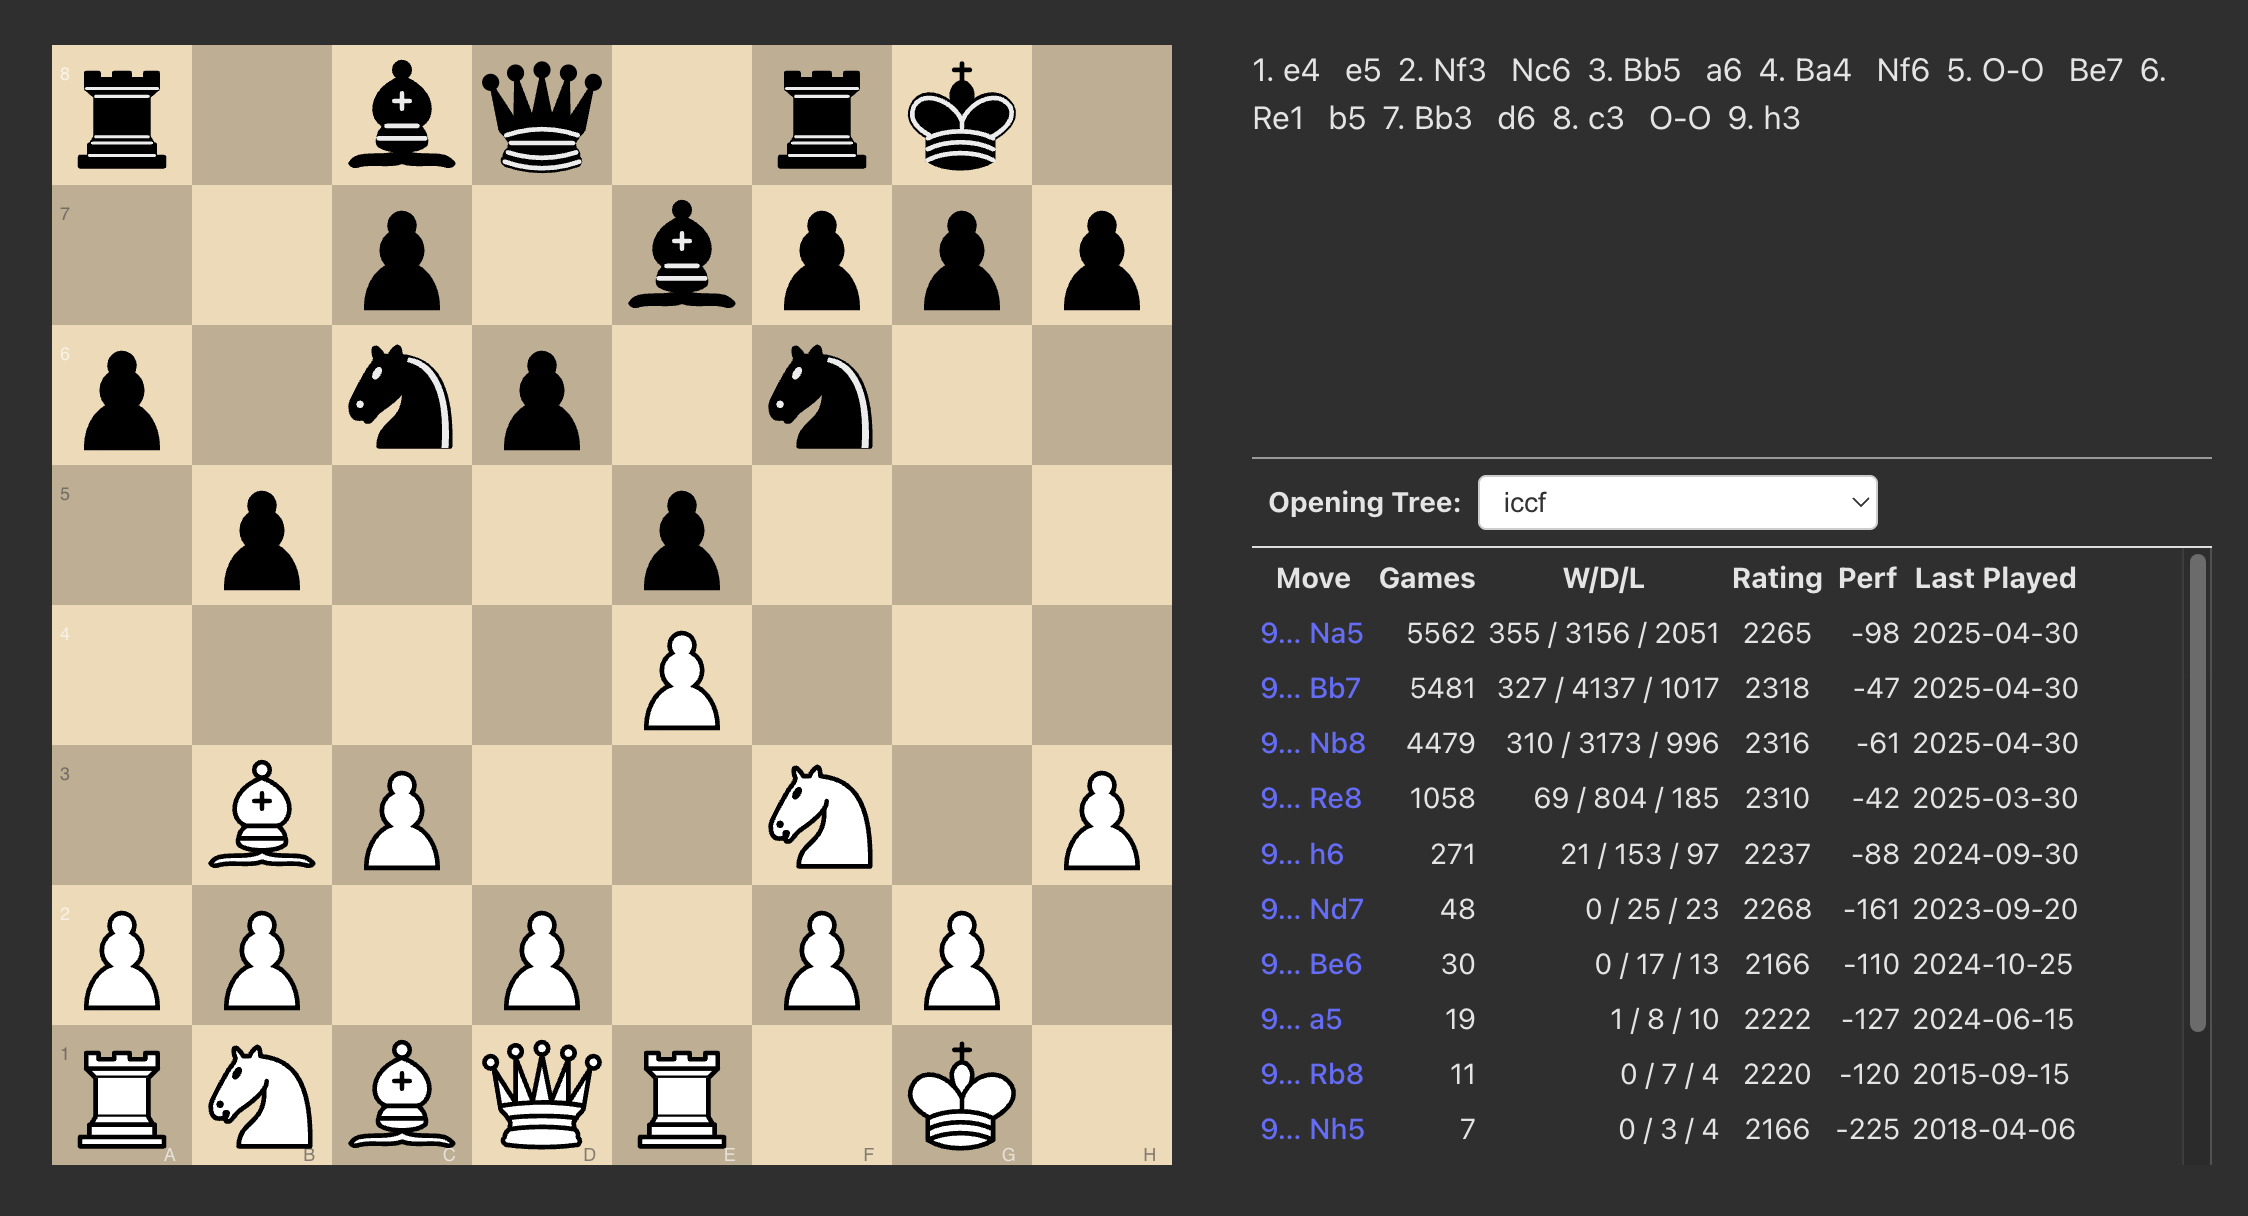
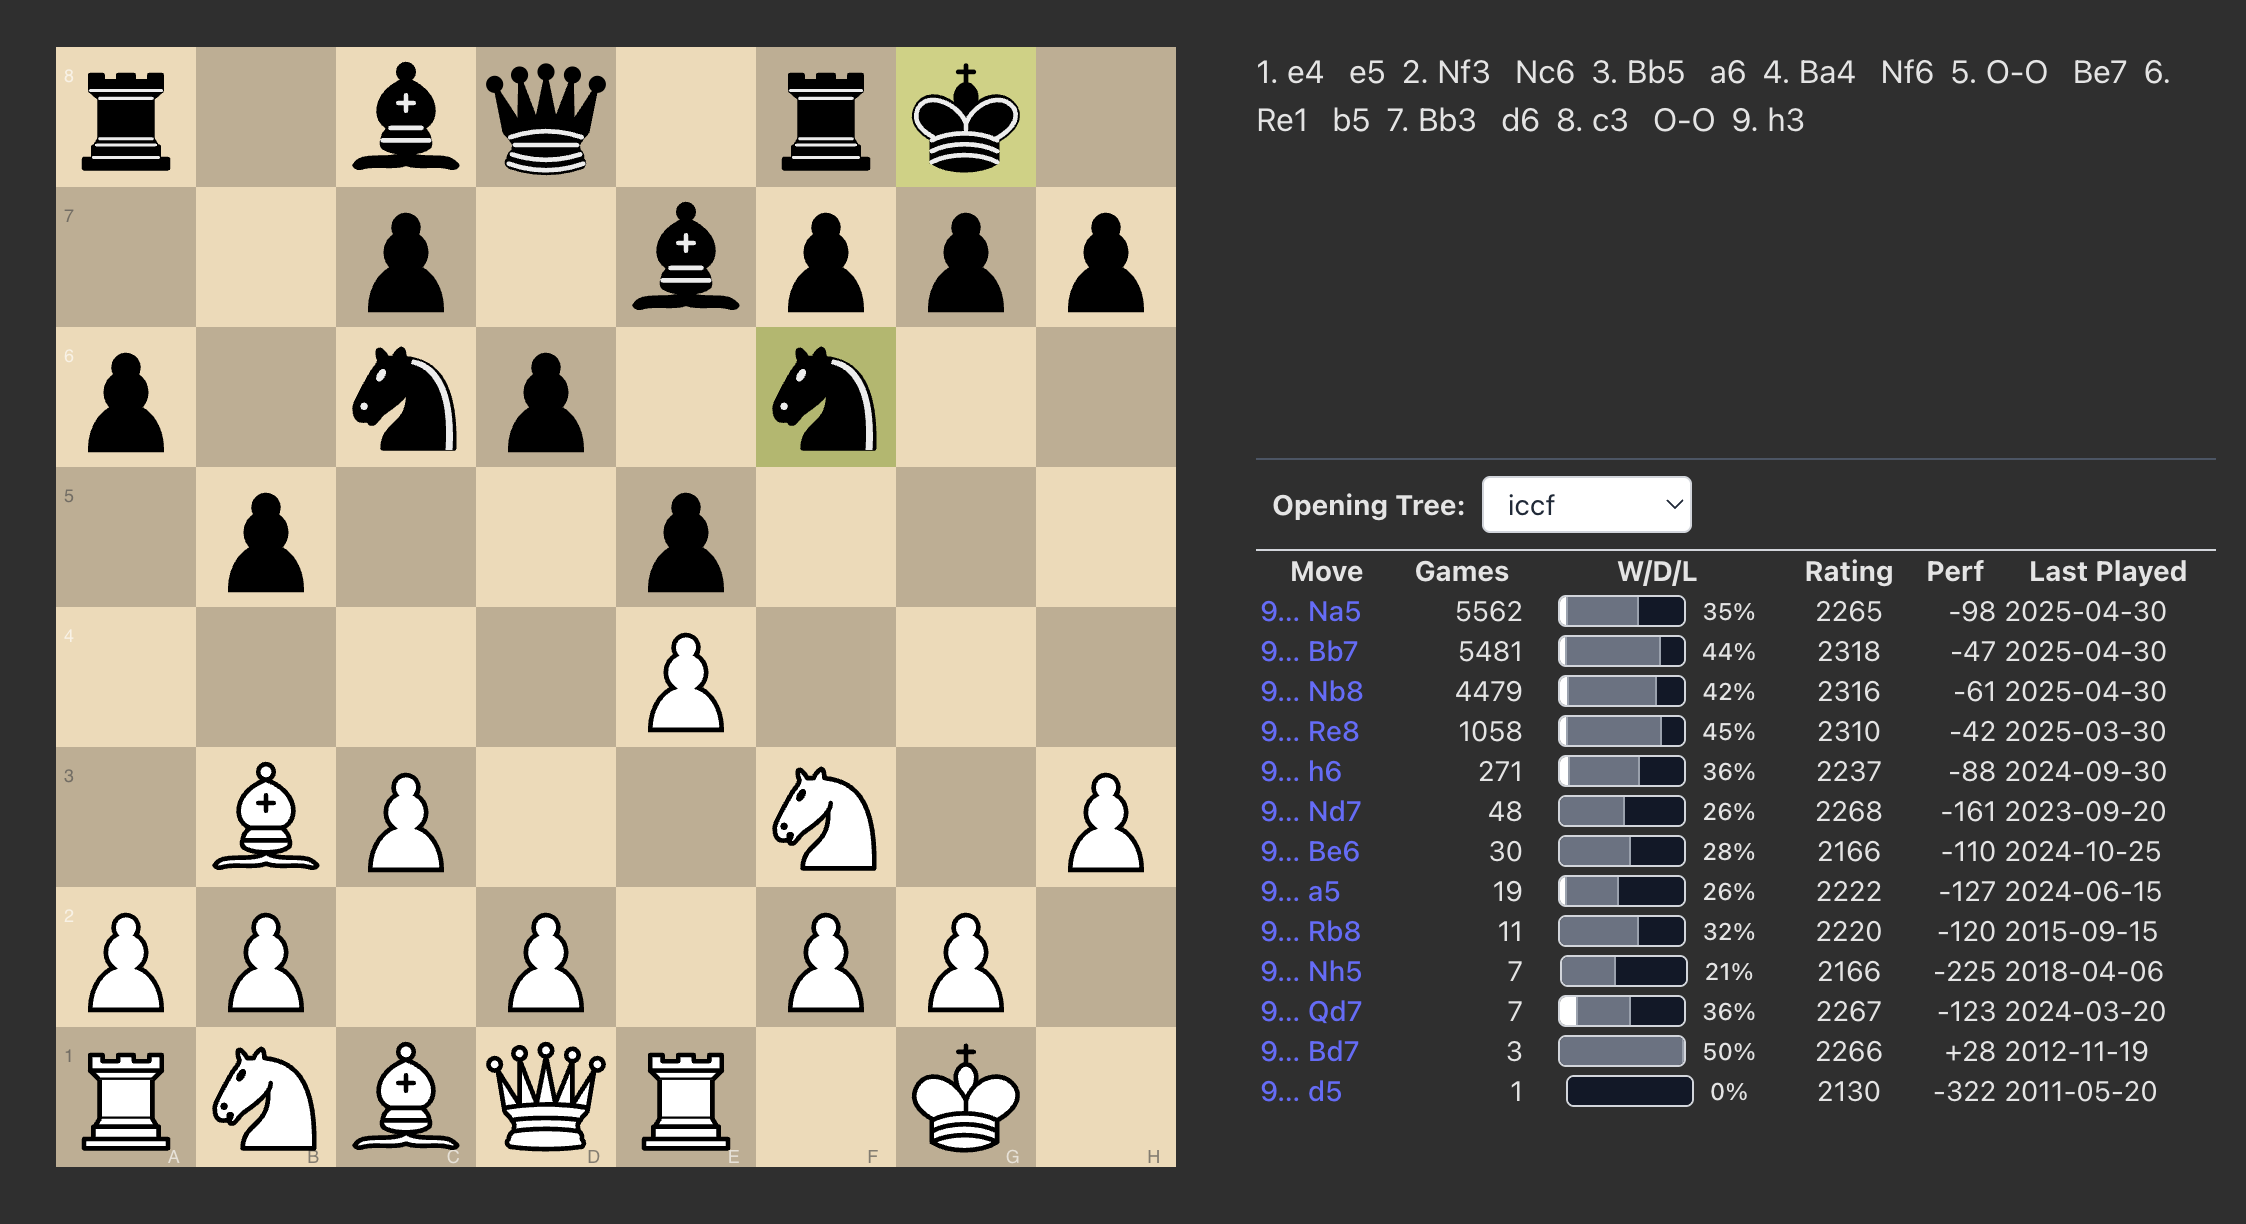
Use WDL bar-graph and percent score instead of numbers.

diff --git a/src/features/opening-trees/components/WDLBarGraph.tsx b/src/features/opening-trees/components/WDLBarGraph.tsx
@@ -1,0 +1,52 @@
+type WDLBarGraphProps = {
+  wins: number;
+  draws: number;
+  losses: number;
+};
+
+export const WDLBarGraph = ({ wins, draws, losses }: WDLBarGraphProps) => {
+  const total = wins + draws + losses;
+
+  if (total === 0) {
+    return (
+      <div className="flex items-center justify-center gap-2" title="0/0/0">
+        <div className="w-16 h-4 bg-gray-200 rounded"></div>
+        <span className="text-xs text-gray-500">0%</span>
+      </div>
+    );
+  }
+
+  const winPercentage = (wins / total) * 100;
+  const drawPercentage = (draws / total) * 100;
+  const lossPercentage = (losses / total) * 100;
+
+  // Calculate score: wins = 1 point, draws = 0.5 points
+  const score = (wins * 1 + draws * 0.5) / total;
+  const scorePercentage = Math.round(score * 100);
+
+  return (
+    <div
+      className="flex items-center justify-center gap-2"
+      title={`${wins} / ${draws} / ${losses}`}
+    >
+      <div className="w-16 h-4 flex rounded overflow-hidden border border-gray-300">
+        {winPercentage > 0 && (
+          <div
+            className="bg-white border-r border-gray-400"
+            style={{ width: `${winPercentage}%` }}
+          />
+        )}
+        {drawPercentage > 0 && (
+          <div
+            className="bg-gray-500 border-r border-gray-400"
+            style={{ width: `${drawPercentage}%` }}
+          />
+        )}
+        {lossPercentage > 0 && (
+          <div className="bg-gray-900" style={{ width: `${lossPercentage}%` }} />
+        )}
+      </div>
+      <span className="text-xs font-medium">{scorePercentage}%</span>
+    </div>
+  );
+};

diff --git a/src/features/opening-trees/components/PositionTable.tsx b/src/features/opening-trees/components/PositionTable.tsx
@@ -1,4 +1,5 @@
 import type { OpeningTreePosition } from '../../../api/types';
+import { WDLBarGraph } from './WDLBarGraph';
 
 type PositionTableProps = {
   treePos: OpeningTreePosition;
@@ -50,10 +51,12 @@ export const PositionTable = ({ treePos, onSelectMove, moveNum = 1 }: PositionTa
             <td align="right" className="px-0.5">
               {move.totalGames}
             </td>
-            <td align="right" className="px-0.5">
-              {isWhiteToMove
-                ? `${move.whiteWins} / ${move.draws} / ${move.blackWins}`
-                : `${move.blackWins} / ${move.draws} / ${move.whiteWins}`}
+            <td align="center" className="px-0.5">
+              <WDLBarGraph
+                wins={isWhiteToMove ? move.whiteWins : move.blackWins}
+                draws={move.draws}
+                losses={isWhiteToMove ? move.blackWins : move.whiteWins}
+              />
             </td>
             <td align="center" className="px-0.5">
               {move.rating}
